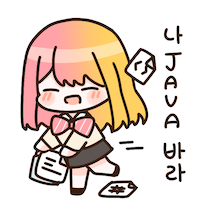
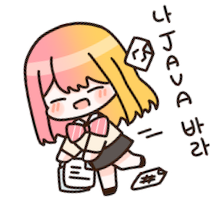
add: 캐릭터 추가
Former-commit-id: e96d49bd81162acd06754bbcf0b793d396d4e89a

diff --git a/electron/src/renderer/components/character/CharacterImg.tsx b/electron/src/renderer/components/character/CharacterImg.tsx
@@ -4,7 +4,14 @@
 import { useEffect, useState } from 'react';
 
 type TMotion = 'click' | 'down' | 'move' | 'stop' | 'up';
-type TDirection = 'left' | 'right' | 'stop' | 'up' | 'down' | 'downsleep';
+type TDirection =
+  | 'left'
+  | 'right'
+  | 'stop'
+  | 'up'
+  | 'down'
+  | 'downsleep'
+  | 'click';
 type TMotionImage = {
   click: Array<string>;
   down: Array<string>;
@@ -19,10 +26,11 @@ type TMotionHandler = {
   up: () => ReturnType<typeof setInterval> | null;
   down: () => ReturnType<typeof setInterval> | null;
   downsleep: () => ReturnType<typeof setInterval> | null;
+  click: () => ReturnType<typeof setInterval> | null;
 };
 
 function CharacterImg() {
-  const TICK = 500;
+  const TICK = 250;
 
   const [character, setCharacter] = useState<string>('');
   const [motion, setMotion] = useState<TMotion>('stop');
@@ -43,6 +51,7 @@ function CharacterImg() {
     up: () => null,
     down: () => null,
     downsleep: () => null,
+    click: () => null,
   };
 
   const { ipcRenderer } = window.electron;
@@ -106,6 +115,11 @@ function CharacterImg() {
       setMotion('down');
       if (images.down.length <= 1) return null;
       return setInterval(indexHandler, TICK, images.down.length);
+    };
+    motionHandler.click = () => {
+      setMotion('click');
+      if (images.click.length <= 1) return null;
+      return setInterval(indexHandler, TICK, images.click.length);
     };
 
     const handler = (direction: TDirection) => {

diff --git a/electron/src/main/main.ts b/electron/src/main/main.ts
@@ -261,6 +261,7 @@ app
 
 let moveTimer: ReturnType<typeof setInterval> | null = null;
 ipcMain.on('start-move', () => {
+  mainWindow?.webContents.send('character-move', 'click');
   moveTimer = setInterval(() => {
     const { x, y } = screen.getCursorScreenPoint();
     mainWindow?.setBounds({
